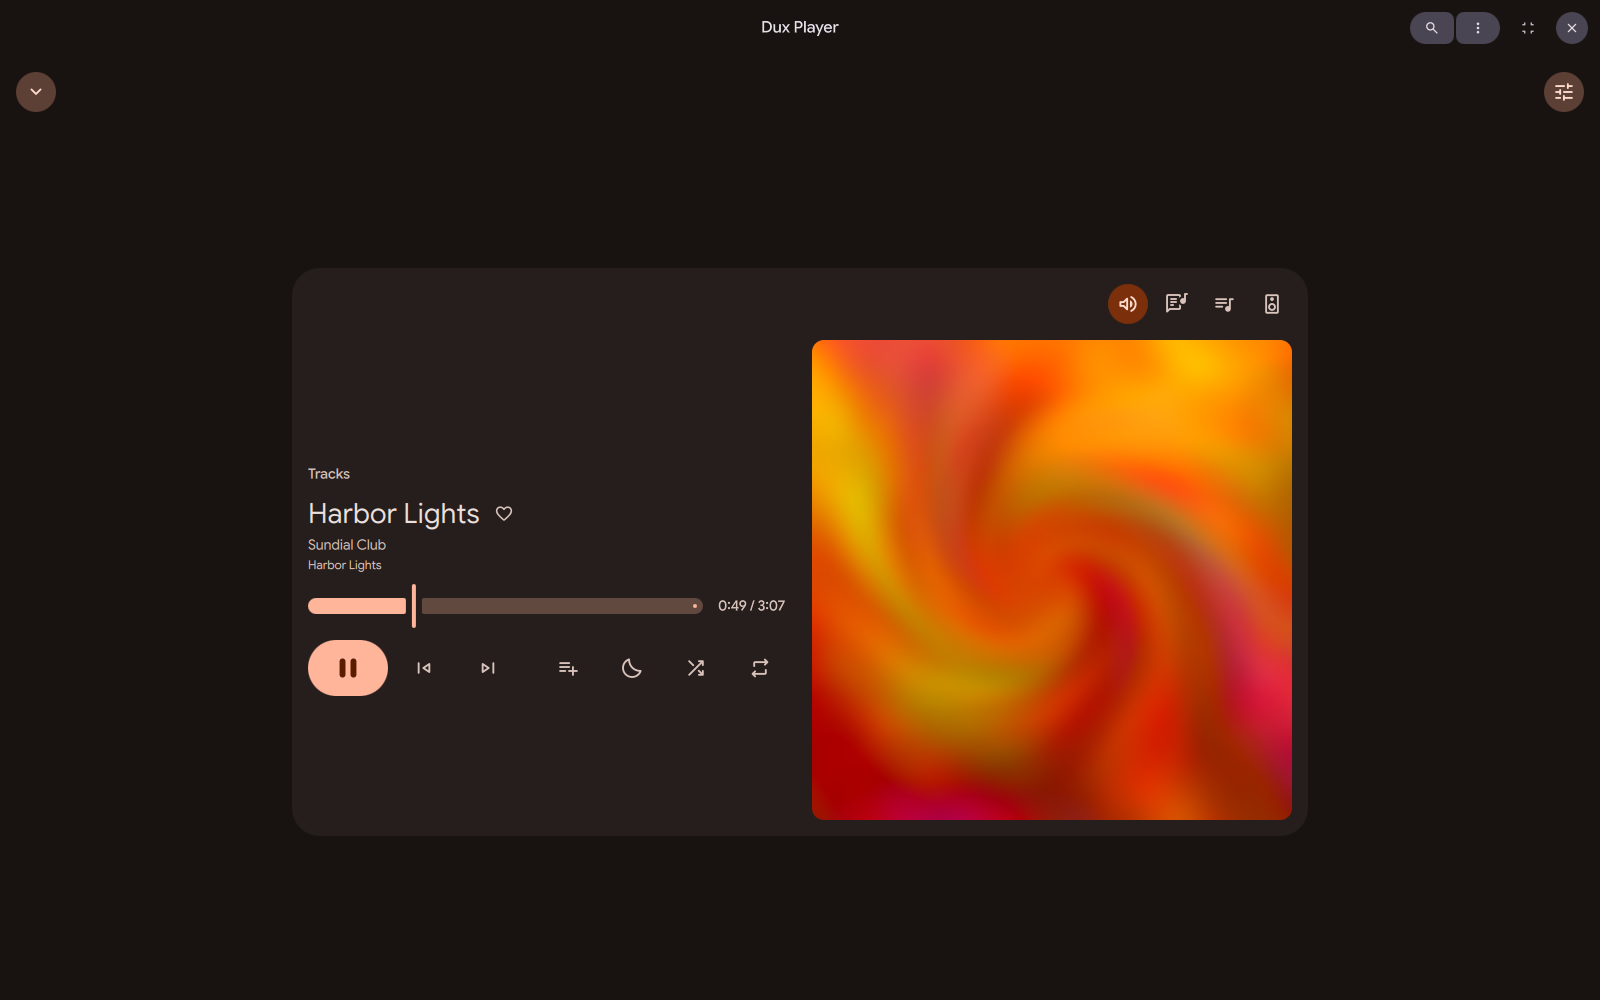
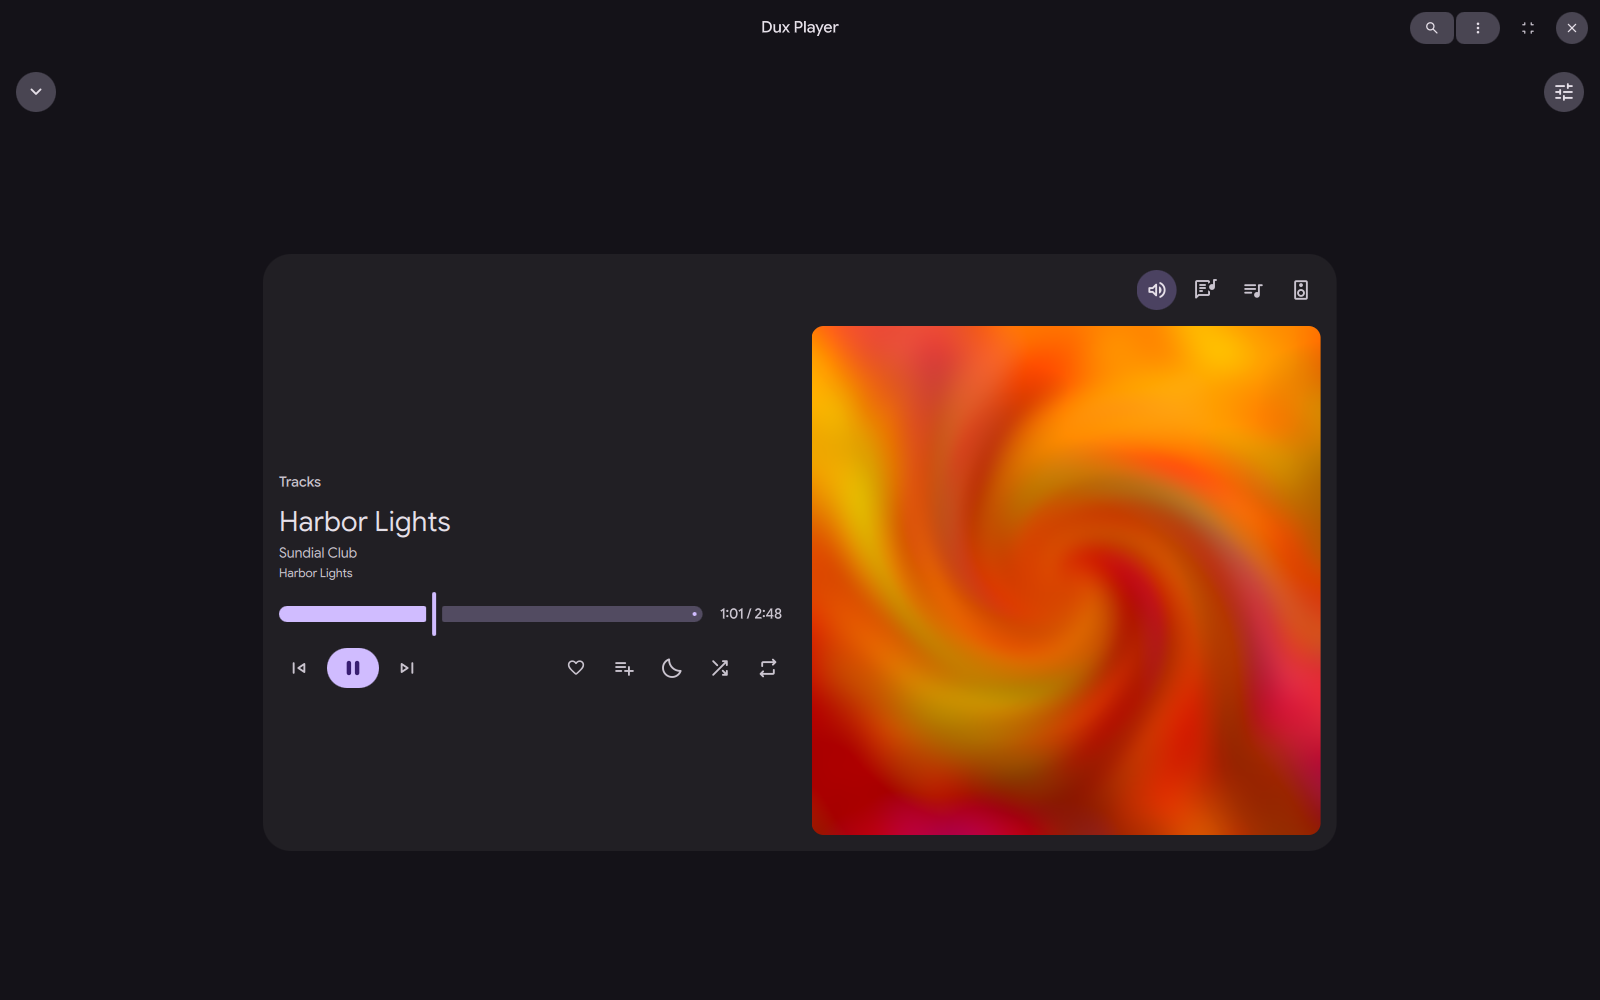
docs: new screenshots and features

diff --git a/README.md b/README.md
@@ -6,44 +6,52 @@ Dux Player plays local libraries and streams from Navidrome, Subsonic and Jellyf
 
 > **Status: 0.0.1-alpha.** Early Development Version
 
-![Home with the player bar](docs/screenshots/home.png)
+![Home in the Bento style](docs/screenshots/home.png)
+
+![Bottom bar and side panel in the Bento and Material styles](docs/screenshots/bars.png)
 
 | Full view, Bento | Full view, Material |
 |---|---|
 | ![Full view in the Bento style](docs/screenshots/now-playing.png) | ![Full view in the Material style](docs/screenshots/now-playing-material.png) |
 
-<details>
-<summary>More screenshots</summary>
-
-| Synced lyrics | Queue beside the player |
+| Synced lyrics | Home with other shelves and layout |
 |---|---|
-| ![Synced lyrics in the Bento full view](docs/screenshots/lyrics.png) | ![Queue beside the Material player](docs/screenshots/material-queue.png) |
-| **Side panel** | **Light mode** |
-| ![Home with the side panel](docs/screenshots/side-panel.png) | ![Home in light mode](docs/screenshots/light.png) |
-| **Albums** | **Album** |
-| ![Albums page](docs/screenshots/albums.png) | ![An album page](docs/screenshots/album.png) |
-| **Playlists** | **Add to playlists** |
-| ![Playlists page](docs/screenshots/playlists.png) | ![Dialog listing which playlists hold the track](docs/screenshots/playlist-dialog.png) |
-| **Settings** | **Settings search** |
-| ![Now playing settings](docs/screenshots/settings.png) | ![Settings search results](docs/screenshots/settings-search.png) |
+| ![Synced lyrics beside the player](docs/screenshots/lyrics.png) | ![Home in the Material style with other shelves](docs/screenshots/home-custom.png) |
 
-</details>
+Pages, columns and the full view can be customized.
+
+| Custom columns | Page editor |
+|---|---|
+| ![Tracks page with custom columns](docs/screenshots/tracks.png) | ![The page editor](docs/screenshots/page-editor.png) |
+
+![A customized full view](docs/screenshots/now-playing-custom.png)
+
+![Supported sources and outputs](docs/screenshots/sources.png)
 
 ## Features
-- Local libraries (several folders, indexed and watched) and any number of server libraries
+- Local libraries (several folders, indexed and watched) and any number of server libraries; Jellyfin also signs in with Quick Connect, so no password is stored
 - Local playlists that mix tracks from any library, plus server native playlists; add a track to several at once and see which ones hold it
 - Offline rules per server library, caching and preloading the next songs for a seamless experience; favorites and ratings set while a server is unreachable are sent once it is back
+- Server catalogs are kept on the device once a first sync finishes: browsing and search are instant and work while the server is unreachable, where tracks without a cached copy show that they can't play. Checked every 15 minutes, read in full when the server reports a change (at most hourly), at least daily, and on Rescan; the sync waits on a metered connection unless started by hand
 - Gapless playback, crossfade, volume normalization, skipping leading and trailing silence, equalizer several outputs at once
-- Optional synced lyrics with word-by-word fill, on by default, scrobbling (through the server, or to ListenBrainz and Last.fm), casting through [dux-cast](https://github.com/Conava/dux-cast)
+- Optional synced lyrics with word-by-word fill, in the full view and as one line in the bar, on by default, scrobbling (through the server, or to ListenBrainz and Last.fm), casting through [dux-cast](https://github.com/Conava/dux-cast)
 - Keeps playing with the window closed; MPRIS, a tray icon and a CLI (`dplayer play`, `dplayer next`, …) for keybinds
-- Fully customizable now-playing bar, side panel and full view in Bento or Material design as well as customizable home page, lists and menus, with searchable settings
+- Phones can control the player over the network through KDE Connect or GSConnect (through MPRIS), until a LAN remote exists
+- `dplayer watch` and `dplayer status --format` for status bars and scripts
+- `dplayer sleep after <number>` stops when a queue entry ends, numbered as `dplayer queue` lists it; a rule behind the current track is dropped unless repeat all is on, and while casting the receiver gets the queue only up to that entry
+- Text templates for a now-playing line and for custom columns in track lists; each column has its own title, Sort by field and width (small, medium or large; Length is sized the same way)
+- Filter rules for track, album and artist pages: match all or any of a list of conditions on fields such as genre, library, rating, year, length, plays, date added and last played
+- Stop after a chosen queue entry, shuffle by album, and rules for what shuffle all and auto-continue skip (genres, libraries, low ratings, short tracks); shuffling a named library ignores that library's skip entry
+- Keep a single song on the device for offline play, from its menu; track tiles can open the album instead of playing; `dplayer keep library:id…` and `dplayer unkeep library:id…` do the same from the CLI
+- When a track has no lyrics, the full view can fall back to the cover
+- Now-playing bar, side panel and full view in Bento or Material design, with arrangeable elements, a customizable home page and track lists, and searchable settings
 
 ## Requirements
 
 - [Quickshell](https://quickshell.org) with Qt 6
 - Recommended: mpv 0.38 or newer. Without it a built-in player plays FLAC, MP3, Ogg Vorbis, Opus, WAV and AIFF through PulseAudio or PipeWire (pipewire-pulse), but not AAC/M4A, ALAC, WavPack, APE or Musepack files; it has no crossfade, speed control, equalizer or several outputs at once, and can't seek in a track the server converts while it plays
 - Go 1.27 to build
-- Optional: ffmpeg (loudness and silence measurement), PipeWire with WirePlumber (multiple outputs, equalizer, system volume), a Secret Service keyring (server passwords), `cast-helper` (casting)
+- Optional: ffmpeg (loudness and silence measurement, matching lyrics timing to the audio), PipeWire with WirePlumber (multiple outputs, equalizer, system volume), a Secret Service keyring (server passwords and sign-in tokens), `cast-helper` 0.2.0 or newer (casting)
 
 ## Build and run
 
@@ -69,6 +77,30 @@ make install
 
 `make help` to list every target.
 
+## Text templates
+
+The Text element of the now-playing surfaces, the Custom text line of track lists and `dplayer status --format` share one syntax:
+
+| | |
+|---|---|
+| `%field%` | The field's value. An unknown name stays as typed. |
+| `%a\|b%` | The first of the fields with a value. |
+| `[ … ]` | Printed only if a field inside has a value: `%album%[ (%year%)]`. |
+| `'…'` | Literal text, for `%`, `[`, `]` and `\|`. `''` is an apostrophe. |
+
+Fields: `title`, `artist`, `artists`, `album`, `albumartist`, `composer`, `genre`, `year`, `tracknumber`, `discnumber`, `duration`, `rating`, `playcount`, `library`, `format`, `bitrate`, `added`, and `playingfrom` for the playing track. The CLI adds `state` (`playing`, `paused`, `stopped`).
+
+## Scripts and status bars
+
+`dplayer status --format '%artist% - %title%'` prints one line. `dplayer watch --format '…'` prints one on every track or play state change until Ctrl+C, and exits with an error when the daemon stops; without `--format` each line is a JSON event. Neither starts the player: with no daemon running they print nothing and fail, so a bar that retries picks the player up once it runs. A waybar module:
+
+```json
+"custom/dplayer": {
+    "exec": "dplayer watch --format '[%artist% - %title%]'",
+    "restart-interval": 5
+}
+```
+
 ## Troubleshooting
 
 The daemon logs to `~/.local/state/dplayer/daemon.log` and the window to `ui.log` next to it, including mpv's warnings and the mpv version found at startup. To watch it live, run `dplayer quit`, then `dplayer daemon` in a terminal, and open the window.
@@ -78,7 +110,7 @@ The daemon logs to `~/.local/state/dplayer/daemon.log` and the window to `ui.log
 Dux Player only contacts the servers you add, except for these features, each of which can be turned off in Settings:
 
 - **Artist information:** artist names are sent to MusicBrainz, Wikidata and Wikipedia, and to fanart.tv and Last.fm once you add your own API key. Biographies from Wikipedia are available under [CC BY-SA 4.0](https://creativecommons.org/licenses/by-sa/4.0/).
-- **Lyrics:** on by default. Title, artist, album and duration of the playing track, of the next track while lyrics are open, and of downloaded tracks are sent to the enabled lyrics providers. Turn lyrics off in Settings → Lyrics and no provider is contacted; turn off Lyrics for downloaded tracks to send only tracks you play.
+- **Lyrics:** on by default. Title, artist, album and length of the playing track, of the next track while lyrics are open, and of downloaded tracks are sent to the enabled lyrics providers. Turn lyrics off in Settings → Lyrics and no provider is contacted; turn off Lyrics for downloaded tracks to send only tracks you play. Matching lyrics timing to the audio runs on this device and sends nothing.
 - **Scrobbling:** played tracks are sent to ListenBrainz or Last.fm when you connect an account. Last.fm needs your own [API account](https://www.last.fm/api/account/create).
 
 ## Contributing

diff --git a/AGENTS.md b/AGENTS.md
@@ -56,7 +56,7 @@ For GUI work, use `make headless` before handing anything over. It runs the real
 
 - **The daemon owns playback.** Playback, the queue, library index, sources and MPRIS live in the Go daemon. The UI is a view: it sends commands and renders events. Closing the window must not stop playback when "keep running" is on.
 - **mpv plays the audio** when it is installed, as a child process controlled over its JSON IPC socket; otherwise the built-in engine (`internal/player/engine`) answers the same IPC in-process and plays fewer formats, with no crossfade or speed. Only `internal/player` talks to either. Every command has a timeout; a crashed backend is restarted and the position restored. A feature that needs mpv goes through the capability fields in the player status, never a check for the binary.
-- **Sources are plugins of the core.** Each library is an instance of a source kind (`local`, `subsonic`, …). A new kind is one package under `internal/source/` plus one registry line. Required behavior is a small interface; optional features (server playlists, scrobbling, favorites, write access) are separate interfaces checked with a type assertion. The player, IPC and UI never switch on the kind; they ask for capabilities and show only what the source supports. Model: Dux Calendar's `core/internal/calendar/provider.go`.
+- **Sources are plugins of the core.** Each library is an instance of a source kind (`local`, `subsonic`, …). A new kind is one package under `internal/source/` plus one registry line. Required behavior is a small interface; optional features (server playlists, scrobbling, favorites, write access) are separate interfaces checked with a type assertion. The player, IPC and UI never switch on the kind; they ask for capabilities and show only what the source supports. Model: Dux Calendar's `core/internal/calendar/provider.go`. A server that implements `CatalogSync` is read into the same `library.Store` tables as rows with an empty path, and `Manager.Browser` reads from there once a sync is complete; until then browsing is live.
 - **Tracks are addressed by library and id,** never by path or URL alone, so playlists and the queue can mix libraries. Local playlists live in the player and can hold tracks from any library; server playlists belong to their server and are edited through it.
 - **Credentials go in the keyring,** never in settings, logs, IPC events or crash output. Stream URLs that carry tokens are secrets too.
 - **Optional integrations cost nothing when absent.** Cast and anything else optional is detected, never required; when missing, its UI doesn't show and it does no work.
